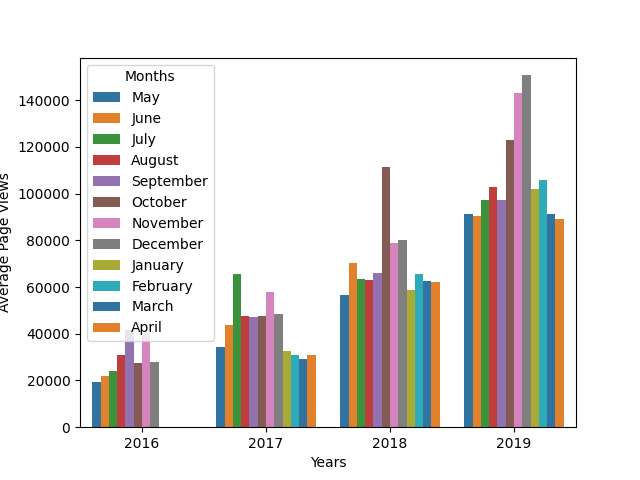
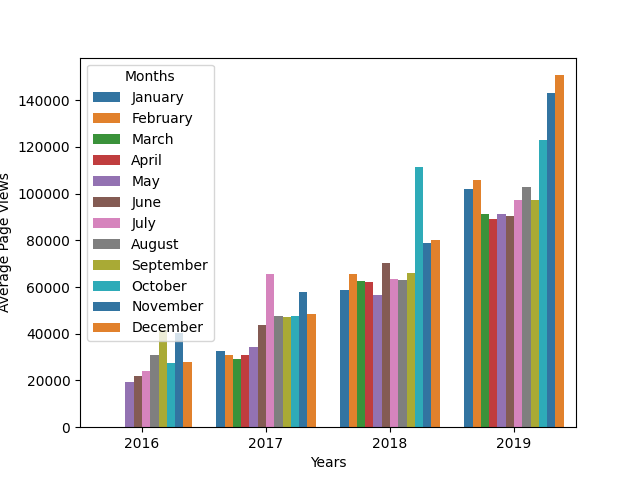
finished challenge, some tests fail due to changes in seaborn/plt versions

diff --git a/time_series_visualizer.py b/time_series_visualizer.py
@@ -30,6 +30,7 @@ def draw_line_plot():
 
 def draw_bar_plot():
     df_bar = df.copy()
+    month_order =  ['January', 'February', 'March', 'April', 'May', 'June', 'July', 'August', 'September', 'October', 'November', 'December'] 
     # Copy and modify data for monthly bar plot
     df_bar['year'], df_bar['month'] = df.index.year, df.index.month
     df_bar = df_bar.groupby(['year','month'],as_index=False).mean().round(0).astype(int)
@@ -39,7 +40,7 @@ def draw_bar_plot():
     # Draw bar plot
     fig, ax = plt.subplots()
 
-    chart = sns.barplot(data=df_bar, x="Years", y="Average Page Views", hue="Months", palette="tab10")
+    chart = sns.barplot(data=df_bar, x="Years", y="Average Page Views", hue="Months",hue_order = month_order, palette="tab10")
     # Save image and return fig (don't change this part)
     fig.savefig('bar_plot.png')
     return fig
@@ -50,13 +51,24 @@ def draw_box_plot():
     df_box.reset_index(inplace=True)
     df_box['year'] = [d.year for d in df_box.date]
     df_box['month'] = [d.strftime('%b') for d in df_box.date]
+    df_box.rename(columns = {"year":"Year", "month":"Month", "value": "Page Views"}, inplace=True)
+    month_order =  ['Jan', 'Feb', 'Mar', 'Apr', 'May', 'Jun', 'Jul', 'Aug', 'Sep', 'Oct', 'Nov', 'Dec'] 
 
     # Draw box plots (using Seaborn)
+    fig, ax = plt.subplots(1,2,figsize=(24,6))
+    ygrph = sns.boxplot(data=df_box, x="Year", y="Page Views", hue="Year", palette="tab10",fliersize = 0.75, ax = ax[0])
+    #warning! The object type will change from axes to text (cant apply some functions such as y limit then! Will name plot afterward)
+    ygrph.set_ylim(0, 200000)
+    ygrph.get_legend().remove()
+    ygrph.set_title("Year-wise Box Plot (Trend)")
 
-
-
-
-
+    mgrph = sns.boxplot(data=df_box, x="Month", y="Page Views", hue="Month",order = month_order, palette="tab10",fliersize = 0.75, ax = ax[1])
+    #For some reason the .get_legend().remove() throws an error in the 2nd plot. 
+    plt.legend([],[], frameon=False)
+    mgrph.set_ylim(0, 200000)
+    mgrph.get_legend().remove()
+    mgrph.set_title("Month-wise Box Plot (Seasonality)")
     # Save image and return fig (don't change this part)
+    plt.tight_layout()
     fig.savefig('box_plot.png')
     return fig

diff --git a/main.py b/main.py
@@ -3,9 +3,9 @@ import time_series_visualizer
 from unittest import main
 
 # Test your function by calling it here
-#time_series_visualizer.draw_line_plot()
+time_series_visualizer.draw_line_plot()
 time_series_visualizer.draw_bar_plot()
-#time_series_visualizer.draw_box_plot()
+time_series_visualizer.draw_box_plot()
 
 # Run unit tests automatically
-#main(module='test_module', exit=False)
+main(module='test_module', exit=False)
